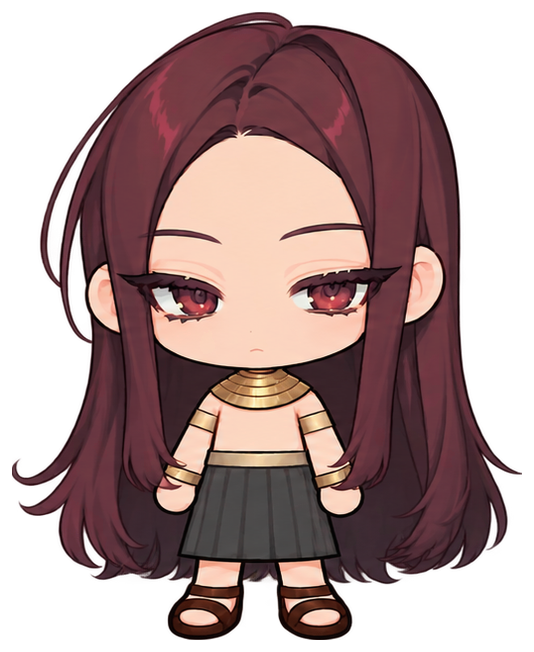
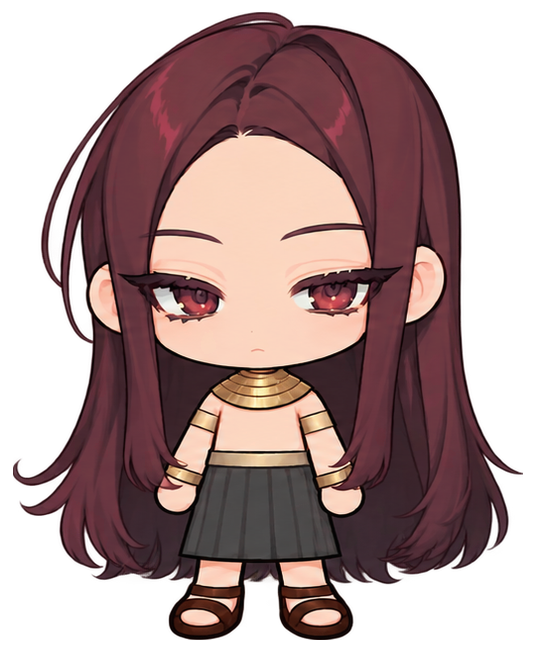
0.9.10 대화 상반신·미소 버튼·전신 크게 보기 제거, 전신 그림 같은 배율
- 세트·호루스 대화 카드의 상반신 두 장과 소망 다문 미소·활짝 웃기 버튼 제거
- 소망 카드의 전신 크게 보기 버튼 제거 (파티 카드 전신 화면은 유지)
- 세 전신 그림을 같은 상자로 잘라 호루스만 크게 보이던 것 해결
- verify-cozy-ui, verify-ui-themes: 대화 카드에 그림이 없는지 확인 (둘 다 통과)

Claude-Session: https://claude.ai/code/session_01VEprA6JeTcQVX6tKD4oAcT

diff --git a/src/ui/portraits.js b/src/ui/portraits.js
@@ -1,50 +1,23 @@
-// Approved detailed minis: separate from the tiny actors on the map.
-import { para, stack } from './kit.js';
+// Full-body pictures of the trio for the party and Somang cards: their approved standing sprites.
+import { stack } from './kit.js';
 
 const base = new URL('../../data/art/portraits/', import.meta.url);
 export const CHARACTER_NAMES = {somang:'소망', set:'세트', horus:'호루스'};
 
-// Full body is the approved standing sprite (front), cropped from docs/art/chibi-refresh/approved/idle;
-// the bust keeps the detailed mini and Somang's two expressions.
-export function portrait(id, {full = false, expression = 'calm'} = {}) {
+// The approved standing sprite (front), cropped from docs/art/chibi-refresh/approved/idle.
+export function portrait(id) {
     const box = document.createElement('figure');
-    box.className = `sf_portrait ${full ? 'sf_portrait_full' : 'sf_portrait_bust'}`;
+    box.className = 'sf_portrait sf_portrait_full';
     const image = document.createElement('img');
-    const key = id === 'somang' ? `somang-${expression}` : id;
-    image.src = new URL(full ? `${id}-idle-full.png` : `${key}-bust.png`, base).href;
-    image.alt = `${CHARACTER_NAMES[id] || id} ${full ? '전신' : '상반신'}${id === 'somang' && !full ? expression === 'smile' ? ' · 활짝 웃는 표정' : ' · 다문 미소' : ''}`;
+    image.src = new URL(`${id}-idle-full.png`, base).href;
+    image.alt = `${CHARACTER_NAMES[id] || id} 전신`;
     image.decoding = 'async';
     box.append(image);
     return box;
 }
 
-// Expression choice is presentation only: it does not change the RP or send chat.
-export function somangPortrait({full = false} = {}) {
-    if (full) return portrait('somang', {full: true}); // the standing sprite has one face
-    const box = stack(); box.classList.add('sf_expression_portrait');
-    let picture = portrait('somang', {full});
-    const controls = document.createElement('div'); controls.className = 'sf_expression_choices';
-    controls.setAttribute('role', 'group'); controls.setAttribute('aria-label', '소망 표정');
-    for (const [expression,label] of [['calm','다문 미소'],['smile','활짝 웃기']]) {
-        const b=document.createElement('button'); b.type='button'; b.className='sf_btn sf_small'; b.textContent=label;
-        b.setAttribute('aria-pressed', String(expression === 'calm'));
-        b.addEventListener('click',()=>{
-            const next=portrait('somang',{full,expression}); picture.replaceWith(next); picture=next;
-            for(const btn of controls.children)btn.setAttribute('aria-pressed',String(btn===b));
-        }); controls.append(b);
-    }
-    box.append(picture, controls); return box;
-}
-
-export function conversationPortraits(npc) {
-    const box=document.createElement('div'); box.className='sf_conversation_art';
-    const other=stack(portrait(npc.id),para(npc.label,'sf_portrait_name'));
-    box.append(other,stack(somangPortrait(),para('소망','sf_portrait_name')));
-    return box;
-}
-
 export function characterDetail(ui,id) {
-    const body=stack(id==='somang' ? somangPortrait({full:true}) : portrait(id,{full:true}));
+    const body=stack(portrait(id));
     body.classList.add('sf_character_detail');
     return ui.showCard({title:CHARACTER_NAMES[id],kind:'character',body,buttons:[{label:'돌아가기'}]});
 }

diff --git a/src/ui/tabs.js b/src/ui/tabs.js
@@ -12,7 +12,7 @@ import { festivalLine } from '../packs/life/festival.js';
 import { bar, list, para, stack } from './kit.js';
 import { codexCard } from './codexcard.js';
 import { showEvent } from './talk.js';
-import { portrait, somangPortrait, characterDetail, CHARACTER_NAMES } from './portraits.js';
+import { portrait, characterDetail, CHARACTER_NAMES } from './portraits.js';
 
 export function somangCard(ui, onClose) {
     const s = getState();
@@ -20,10 +20,7 @@ export function somangCard(ui, onClose) {
     const r = rankInfo(s.stats.xp);
     const opens = { wisdom: '기록 해독, 강 건너 비문', strength: '두아트에서 버티는 체력, 공격', faith: '두아트의 주문' };
     const hero = document.createElement('div'); hero.className = 'sf_character_summary';
-    const art = somangPortrait({full:true});
-    const inspect = document.createElement('button'); inspect.type='button'; inspect.className='sf_btn sf_small'; inspect.textContent='전신 크게 보기';
-    inspect.addEventListener('click',()=>characterDetail(ui,'somang'));
-    hero.append(stack(art,inspect),stack(para('소망','sf_character_name'),para(`모험 등급 ${r.rank}`),
+    hero.append(portrait('somang'),stack(para('소망','sf_character_name'),para(`모험 등급 ${r.rank}`),
         ...Object.entries(STATS).map(([k,ko])=>para(`${ko} ${s.stats[k]}`,'sf_character_stat'))));
     close = ui.showCard({ title: '소망', onClose, kind:'character-stats', wide:true,
         body: stack(
@@ -65,7 +62,7 @@ export function partyCard(ui, onClose) {
         const card=document.createElement('button');card.type='button';card.className='sf_party_portrait';
         card.dataset.character=id;card.setAttribute('aria-label',`${CHARACTER_NAMES[id]} 전신 보기`);
         card.classList.toggle('sf_selected',id===s.party.with);
-        card.append(para(CHARACTER_NAMES[id],'sf_character_name'),portrait(id,{full:true}),
+        card.append(para(CHARACTER_NAMES[id],'sf_character_name'),portrait(id),
             para(id==='somang'?'모험가':s.party.with===id?'함께하는 중':'전신 보기','sf_party_caption'));
         card.addEventListener('click',()=>characterDetail(ui,id));gallery.append(card);
     }

diff --git a/src/ui/talk.js b/src/ui/talk.js
@@ -8,7 +8,6 @@ import { DATA } from '../core/data.js';
 import { addNews } from '../core/news.js';
 import { josa } from '../core/ko.js';
 import { getState } from '../core/state.js';
-import { conversationPortraits } from './portraits.js';
 
 // "{물건:을} 들고 {상대}에게" with the values filled in
 function fill(tpl, vals) {
@@ -78,7 +77,6 @@ export function personCard(ui, npc) {
     ui.showCard({
         title: npc.label,
         kind: 'conversation',
-        body: ['set', 'horus'].includes(npc.id) ? conversationPortraits(npc) : null,
         text: fresh.length
             ? `챗의 지금 장면에서 ${npc.label}에게 꺼내 보일 수 있어. 장면을 옮기고 싶을 때만 찾아가기.`
             : `${npc.whereKo || ''}에 있다. 가방에 꺼내 보일 게 없어서 찾아가기만 할 수 있어.`,

diff --git a/src/core/settings.js b/src/core/settings.js
@@ -2,7 +2,7 @@
 
 import { ctx } from './st.js';
 
-export const VERSION = '0.9.9';
+export const VERSION = '0.9.10';
 export const MODULE = 'sand_feather';
 export const PROMPT_KEY = 'sand_feather_world';
 export const UI_THEMES = [

diff --git a/docs/TRIO-MOTION-098.md b/docs/TRIO-MOTION-098.md
@@ -45,3 +45,9 @@
 ## 0.9.9 전신 보기도 정지 스프라이트로
 
 사용자 요청으로 파티 카드, 전신 크게 보기, 소망 카드의 전신 그림을 승인된 정면 정지 그림으로 바꿨다. `data/art/portraits/{set,somang,horus}-idle-full.png`는 원본 `approved/idle/*-front.png`를 알파 경계에서 12px 여유만 두고 자른 것이다. 크기 조정이나 다시 그리기는 하지 않았다. 대화 상반신과 소망의 다문 미소·활짝 웃기는 그대로다. 정지 그림은 표정이 하나라서 전신 화면에서는 표정 버튼을 뺐다. 예전 전신 PNG는 지우지 않았다. [화면](consult/trio-motion-098/full-body.png)
+
+## 0.9.10 대화 상반신·미소·전신 크게 보기 제거
+
+사용자 요청으로 세트·호루스 대화 카드의 상반신 두 장과 소망의 다문 미소·활짝 웃기 버튼을 뺐다. 대화 카드는 글과 버튼만 남는다. 소망 카드의 `전신 크게 보기` 버튼도 뺐다. 소망 카드와 파티 카드의 전신 그림은 정지 스프라이트 그대로 남겼다. 파티 카드의 그림을 누르면 열리는 전신 화면은 유지했다.
+
+세 전신 그림은 처음에 각자 알파 경계로 잘라서, 폭이 가장 좁은 호루스가 칸에 맞춰 더 크게 보였다. 이제 세 장 모두 공통 발 기준점 310을 가운데로 같은 상자 (42, 22)–(578, 674)로 잘라 같은 배율로 보인다. [화면](consult/trio-motion-098/party-same-scale.png) 예전 상반신 PNG 파일은 저장소에 남아 있지만 쓰지 않는다. [화면](consult/trio-motion-098/no-busts.png)

diff --git a/docs/SESSION-HANDOFF.md b/docs/SESSION-HANDOFF.md
@@ -13,7 +13,8 @@
 - `docs/art/chibi-refresh/approved/`의 48장을 `tools/art/pack-trio-motion.py`로 `data/art/characters/trio-motion.png`에 패킹하고, `sprites.json`의 `looks.*.motion`에 연결했다. 상세는 [TRIO-MOTION-098.md](TRIO-MOTION-098.md).
 - 표시 높이 24 논리 px. 정지와 걷기 높이가 같다. 걷기는 0-1-2-1, 180ms. 호루스 정면만 승인 오프셋이 있고, 옛 bob은 셋소호에서 뺐다.
 - 상인은 옛 `pocket-chibi.png` 그대로다. `pack-pocket-sprites.cjs`를 실행하지 말 것.
-- 0.9.9: 전신 보기(파티, 전신 크게 보기, 소망 카드)도 정면 정지 그림 `data/art/portraits/*-idle-full.png`. 대화 상반신과 소망 표정 두 개는 그대로.
+- 0.9.9: 전신 보기(파티, 소망 카드)는 정면 정지 그림 `data/art/portraits/*-idle-full.png`.
+- 0.9.10: 대화 카드 상반신, 소망 미소 버튼 두 개, `전신 크게 보기` 버튼 제거. 상반신은 다시 넣지 말 것.
 
 ## 이전 완료 — 0.9.7 새 옴보스 전체맵 낮밤
 

diff --git a/README.md b/README.md
@@ -6,6 +6,8 @@
 
 **셋소호 승인 아트 적용 대기:** 기본 자세·걷기 48장과 최종 호루스 움직임 설정을 정리했다. [오푸스 적용 지시](docs/OPUS-IDLE-WALK-INTEGRATION.md) · [파일별 목록](docs/APPROVED-IDLE-WALK-FILES.md). 아직 게임 적용 완료는 아니다.
 
+**0.9.10:** 대화 카드의 상반신과 소망 미소 버튼, 소망 카드의 `전신 크게 보기`를 뺐다.
+
 **0.9.9 전신 보기:** 파티와 소망 카드의 전신 그림도 새 정지 스프라이트로 바꿨다.
 
 **0.9.8 셋소호 새 스프라이트:** 승인된 세트, 소망, 호루스 4방향 정지와 걷기 48장으로 바꿨다. 서 있으면 정지 그림, 걸으면 세 포즈가 0-1-2-1로 돌고, 동행도 같이 걷는다. [적용과 확인](docs/TRIO-MOTION-098.md).
